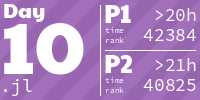
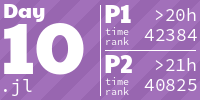
Minor adjustments to tile plot

diff --git a/create_aoc_tiles.py b/create_aoc_tiles.py
@@ -1,9 +1,23 @@
-# Author: LiquidFun
-# Source: https://github.com/LiquidFun/adventofcode
+"""
+Author: LiquidFun
+Source: https://github.com/LiquidFun/adventofcode
 
+To use this script, you need to have a file named
+"session.cookie" in the same folder as this script.
+
+It should contain a single file, the "session" cookie
+when logged in to https://adventofcode.com. Just
+paste it in there.
+
+Then install the requirements as listed in the requirements.txt:
+    pip install -r requirements.txt
+
+Then run the script:
+    python create_aoc_tiles.py
+"""
 import itertools
+import math
 from collections import namedtuple
-from dataclasses import dataclass
 from functools import cache
 from pathlib import Path
 import re
@@ -141,10 +155,11 @@ def get_alternating_background(languages, both_parts_completed=True, *, stripe_w
 
 @cache
 def get_font(name: str, size: int):
-    return ImageFont.truetype(name, size)
+    return ImageFont.truetype(str(aoc_folder / name), size)
 
 
 def fmt_time(time: str) -> str:
+    """Formats time as mm:ss if the time is below 1 hour, otherwise it returns >1h to a max of >24h"""
     time = time.replace("&gt;", ">")
     if ">" in time:
         formatted = time
@@ -154,42 +169,52 @@ def fmt_time(time: str) -> str:
     return f"{formatted:>5}"
 
 
+def draw_star(drawer: ImageDraw, at: tuple[int, int], size=9, color="#ffff0022", num_points=5):
+    """Draws a star at the given position"""
+    diff = math.pi * 2 / num_points / 2
+    points: list[tuple[float, float]] = []
+    for angle in [diff * i - math.pi / 2 for i in range(num_points * 2)]:
+        factor = size if len(points) % 2 == 0 else size * .4
+        points.append((at[0] + math.cos(angle) * factor, at[1] + math.sin(angle) * factor))
+    drawer.polygon(points, fill=color)
+
+
 def gen_day_graphic(day: str, year: str, languages: list[str], day_scores: DayScores | None) -> Path:
+    """Saves a graphic for a given day and year. Returns the path to it."""
     image = get_alternating_background(languages, not (day_scores is None or day_scores.time2 is None))
     drawer = ImageDraw(image)
     paytone = lambda size: get_font("Media/fonts/PaytoneOne.ttf", size)
     source_code = lambda size: get_font("Media/fonts/SourceCodePro-Regular.otf", size)
-    drawer.text((1, -10), str(day), fill="white", align="center", font=paytone(75))
+    font_color = "white"
+
+    # === Left side ===
+    drawer.text((3, -5), "Day", fill=font_color, align="left", font=paytone(20))
+    drawer.text((1, -10), str(day), fill=font_color, align="center", font=paytone(75))
+    # Calculate font size based on number of characters, because it might overflow
     lang_as_str = ' '.join(languages)
     lang_font_size = max(6, int(18 - max(0, len(lang_as_str) - 8) * 1.3))
-    drawer.text((0, 74), lang_as_str, fill="white", align="left", font=source_code(lang_font_size))
-    drawer.text((3, -5), "Day", fill="white", align="left", font=paytone(20))
+    drawer.text((0, 74), lang_as_str, fill=font_color, align="left", font=source_code(lang_font_size))
 
-    # drawer.text((123, 0), f"LoC:{loc:3}", fill="white", align="right", font=source_code(18))
-
-    if day_scores is not None and day_scores.time1 is not None:
-        drawer.text((104, -5), "P1 ", fill="white", align="left", font=paytone(25))
-        drawer.text((105, 25), "time", fill="white", align="right", font=source_code(8))
-        drawer.text((105, 35), "rank", fill="white", align="right", font=source_code(8))
-        drawer.text((143, 3), fmt_time(day_scores.time1), fill="white", align="right", font=source_code(18))
-        drawer.text((143, 23), f"{day_scores.rank1:>5}", fill="white", align="right", font=source_code(18))
-    else:
-        drawer.line((140, 15, 160, 35), fill="white", width=2)
-        drawer.line((140, 35, 160, 15), fill="white", width=2)
-    if day_scores is not None and day_scores.time2 is not None:
-        drawer.text((104, 45), "P2 ", fill="white", align="left", font=paytone(25))
-        drawer.text((105, 75), "time", fill="white", align="right", font=source_code(8))
-        drawer.text((105, 85), "rank", fill="white", align="right", font=source_code(8))
-        drawer.text((143, 53), fmt_time(day_scores.time2), fill="white", align="right", font=source_code(18))
-        drawer.text((143, 73), f"{day_scores.rank2:>5}", fill="white", align="right", font=source_code(18))
-    else:
-        drawer.line((140, 65, 160, 85), fill="white", width=2)
-        drawer.line((140, 85, 160, 65), fill="white", width=2)
+    # === Right side (P1 & P2) ===
+    for part in (1, 2):
+        time, rank = getattr(day_scores, f"time{part}"), getattr(day_scores, f"rank{part}")
+        y = 50 if part == 2 else 0
+        if day_scores is not None and time is not None:
+            drawer.text((104, -5 + y), f"P{part} ", fill=font_color, align="left", font=paytone(25))
+            drawer.text((105, 25 + y), "time", fill=font_color, align="right", font=source_code(10))
+            drawer.text((105, 35 + y), "rank", fill=font_color, align="right", font=source_code(10))
+            drawer.text((143, 3 + y), fmt_time(time), fill=font_color, align="right", font=source_code(18))
+            drawer.text((133, 23 + y), f"{rank:>6}", fill=font_color, align="right", font=source_code(18))
+        else:
+            drawer.line((140, 15 + y, 160, 35 + y), fill=font_color, width=2)
+            drawer.line((140, 35 + y, 160, 15 + y), fill=font_color, width=2)
 
     if day_scores is None:
-        drawer.line((10, 85, 70, 85), fill="white", width=2)
-    drawer.line((100, 5, 100, 95), fill="white", width=1)
-    drawer.line((105, 50, 195, 50), fill="white", width=1)
+        drawer.line((10, 85, 70, 85), fill=font_color, width=2)
+
+    # === Divider lines ===
+    drawer.line((100, 5, 100, 95), fill=font_color, width=1)
+    drawer.line((105, 50, 195, 50), fill=font_color, width=1)
 
     path = aoc_folder / f"Media/{year}/{day}.png"
     path.parent.mkdir(parents=True, exist_ok=True)
@@ -214,7 +239,7 @@ def handle_day(day: int, year: int, day_path: Path, html: HTML, day_scores: DayS
     day_graphic_path = gen_day_graphic(f"{day:02}", f"{year:04}", languages, day_scores)
     day_graphic_path = day_graphic_path.relative_to(aoc_folder)
     with html.tag("a", href=str(solution_file_path)):
-        html.tag("img", closing=False, src=str(day_graphic_path), width="161px")
+        html.tag("img", closing=False, src=str(day_graphic_path), width="162px")
 
 
 def find_first_number(string: str) -> int:
@@ -251,7 +276,7 @@ def handle_year(year_path: Path, year: int):
 def main():
     for year_path in sorted(get_paths_matching_regex(aoc_folder, YEAR_PATTERN), reverse=True):
         year = find_first_number(year_path.name)
-        print(f"Generating table for year {year}")
+        print(f"=== Generating table for year {year} ===")
         handle_year(year_path, year)
 
 

diff --git a/README.md b/README.md
@@ -1,86 +1,92 @@
-# My Advent of Code Solutions
+<h1 align="center">
+  My Advent of Code Solutions
+</h1>
 
 <!-- REPLACE FROM -->
 <h1 align="center">
   2021
 </h1>
 <a href="2021/01/1.apl">
-  <img src="Media/2021/01.png" width="161px">
+  <img src="Media/2021/01.png" width="162px">
 </a>
 <a href="2021/02/2.jl">
-  <img src="Media/2021/02.png" width="161px">
+  <img src="Media/2021/02.png" width="162px">
 </a>
 <a href="2021/03/3.jl">
-  <img src="Media/2021/03.png" width="161px">
+  <img src="Media/2021/03.png" width="162px">
 </a>
 <a href="2021/04/4.jl">
-  <img src="Media/2021/04.png" width="161px">
+  <img src="Media/2021/04.png" width="162px">
 </a>
 <a href="2021/05/5.jl">
-  <img src="Media/2021/05.png" width="161px">
+  <img src="Media/2021/05.png" width="162px">
 </a>
 <a href="2021/06/6.jl">
-  <img src="Media/2021/06.png" width="161px">
+  <img src="Media/2021/06.png" width="162px">
 </a>
 <a href="2021/07/7.jl">
-  <img src="Media/2021/07.png" width="161px">
+  <img src="Media/2021/07.png" width="162px">
 </a>
 <a href="2021/08/8.jl">
-  <img src="Media/2021/08.png" width="161px">
+  <img src="Media/2021/08.png" width="162px">
 </a>
 <a href="2021/09/9.jl">
-  <img src="Media/2021/09.png" width="161px">
+  <img src="Media/2021/09.png" width="162px">
 </a>
 <a href="2021/10/10.jl">
-  <img src="Media/2021/10.png" width="161px">
+  <img src="Media/2021/10.png" width="162px">
 </a>
 <a href="2021/11/11.jl">
-  <img src="Media/2021/11.png" width="161px">
+  <img src="Media/2021/11.png" width="162px">
 </a>
 <a href="2021/12/12.jl">
-  <img src="Media/2021/12.png" width="161px">
+  <img src="Media/2021/12.png" width="162px">
 </a>
 <a href="2021/13/13.jl">
-  <img src="Media/2021/13.png" width="161px">
+  <img src="Media/2021/13.png" width="162px">
 </a>
 <a href="2021/14/14.jl">
-  <img src="Media/2021/14.png" width="161px">
+  <img src="Media/2021/14.png" width="162px">
 </a>
 <a href="2021/15/15.jl">
-  <img src="Media/2021/15.png" width="161px">
+  <img src="Media/2021/15.png" width="162px">
 </a>
 <a href="2021/16/16.jl">
-  <img src="Media/2021/16.png" width="161px">
+  <img src="Media/2021/16.png" width="162px">
 </a>
 <a href="2021/17/17.jl">
-  <img src="Media/2021/17.png" width="161px">
+  <img src="Media/2021/17.png" width="162px">
 </a>
 <a href="2021/18/18.jl">
-  <img src="Media/2021/18.png" width="161px">
+  <img src="Media/2021/18.png" width="162px">
 </a>
 <a href="2021/19/19.jl">
-  <img src="Media/2021/19.png" width="161px">
+  <img src="Media/2021/19.png" width="162px">
 </a>
 <a href="2021/20/20.jl">
-  <img src="Media/2021/20.png" width="161px">
+  <img src="Media/2021/20.png" width="162px">
 </a>
 <a href="2021/21/21.jl">
-  <img src="Media/2021/21.png" width="161px">
+  <img src="Media/2021/21.png" width="162px">
 </a>
 <a href="2021/22/22.jl">
-  <img src="Media/2021/22.png" width="161px">
+  <img src="Media/2021/22.png" width="162px">
 </a>
 <a href="2021/23/23.jl">
-  <img src="Media/2021/23.png" width="161px">
+  <img src="Media/2021/23.png" width="162px">
 </a>
 <a href="2021/24/24.cpp">
-  <img src="Media/2021/24.png" width="161px">
+  <img src="Media/2021/24.png" width="162px">
 </a>
 <a href="2021/25/25.jl">
-  <img src="Media/2021/25.png" width="161px">
+  <img src="Media/2021/25.png" width="162px">
 </a>
 <!-- REPLACE UNTIL -->
 
+
+---
+
+The graphic above has been created with [this](create_aoc_tiles.py) script. Feel free to use it in your own repositories.
 
 ---
 
@@ -91,6 +97,3 @@ Programs are initialized with the `init-day.sh` script. I.e. typing `init-day.sh
 
 * 2021: There is a solution for each problem in Julia. Sometimes there is a Python or APL solution as well. I'm trying out Julia for the first time, mostly focusing on short and elegant code. 
 
----
-
-The graphic above has been created with [this](days_plot.py) script. Feel free to use it in your own repositories.
